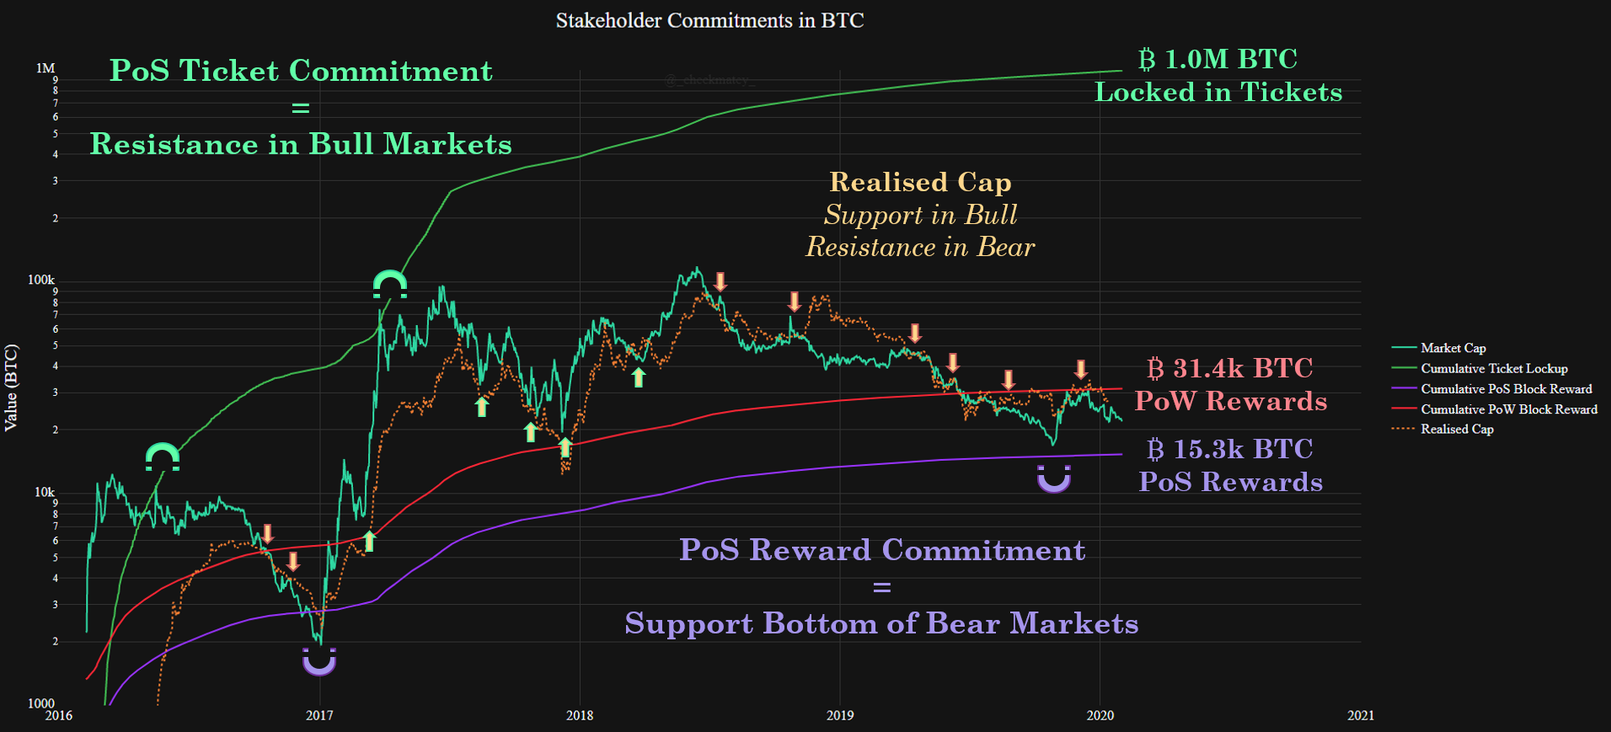
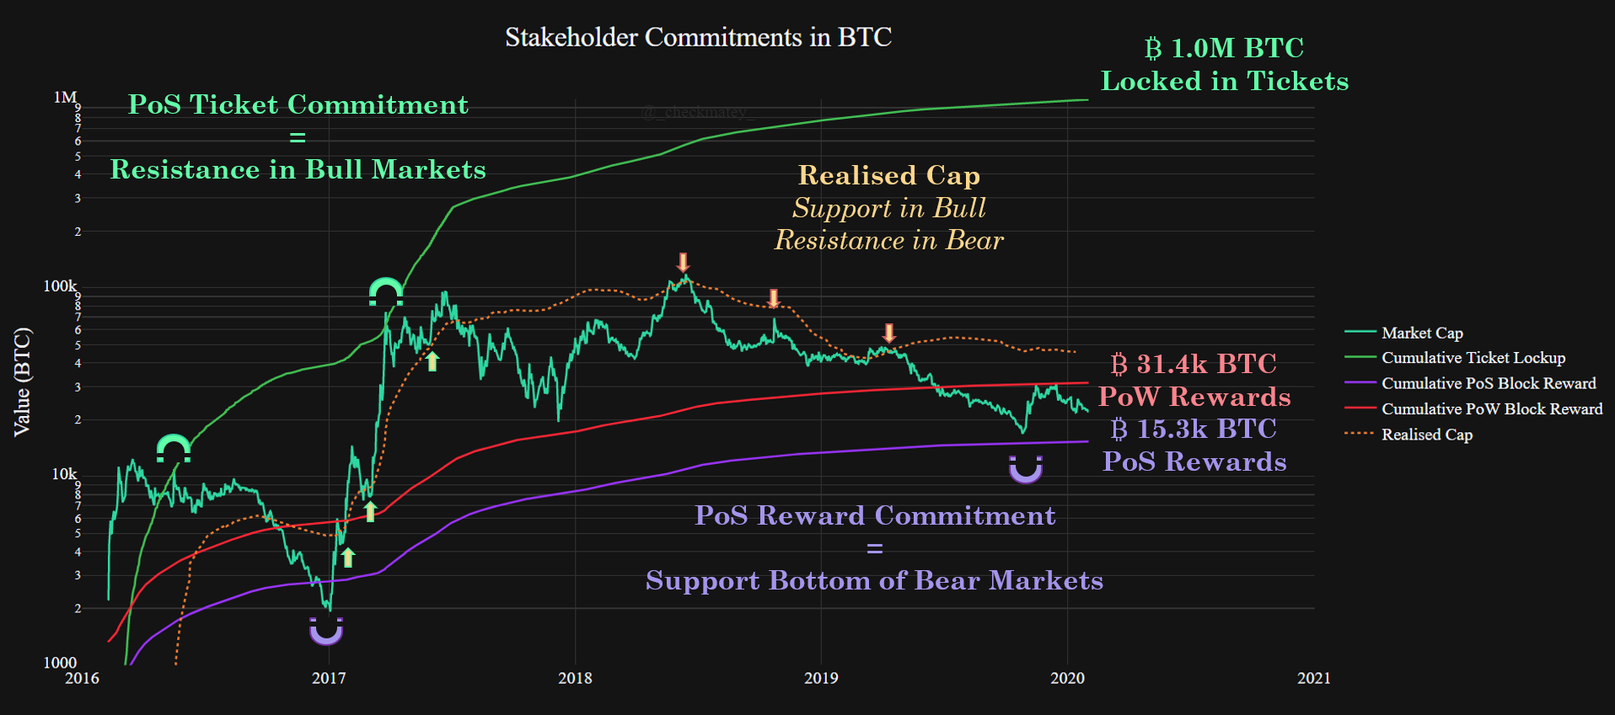
miner test update

diff --git a/btconchain/charts/chart_mcap_vs_blockrewards.py b/btconchain/charts/chart_mcap_vs_blockrewards.py
@@ -1,0 +1,88 @@
+#Plot Market Cap vs Block Subsidy
+from checkonchain.general.standard_charts import *
+from checkonchain.general.coinmetrics_api import *
+
+BTC = Coinmetrics_api('btc',"2009-01-03",today).convert_to_pd().set_index('date',drop=False)
+LTC = Coinmetrics_api('ltc',"2011-10-07",today).convert_to_pd().set_index('date',drop=False)
+DAS = Coinmetrics_api('dash',"2014-01-19",today).convert_to_pd().set_index('date',drop=False)
+DCR = Coinmetrics_api('dcr',"2016-02-08",today).convert_to_pd().set_index('date',drop=False)
+XMR = Coinmetrics_api('xmr',"2014-04-18",today).convert_to_pd().set_index('date',drop=False)
+ZEC = Coinmetrics_api('zec',"2016-10-28",today).convert_to_pd().set_index('date',drop=False)
+ETH = Coinmetrics_api('eth',"2015-07-30",today).convert_to_pd().set_index('date',drop=False)
+
+
+loop_data = [[0,1,2,3,4,5,6,7,8,9,10,11,12,13],[]]
+x_data = [
+    BTC['date'],BTC['date'],
+    LTC['date'],LTC['date'],
+    DAS['date'],DAS['date'],
+    DCR['date'],DCR['date'],
+    XMR['date'],XMR['date'],
+    ZEC['date'],ZEC['date'],
+    ETH['date'],ETH['date'],
+    ]
+y_data = [
+    BTC['CapMrktCurUSD'],BTC['DailyIssuedUSD'].cumsum(),
+    LTC['CapMrktCurUSD'],LTC['DailyIssuedUSD'].cumsum(),
+    DAS['CapMrktCurUSD'],DAS['DailyIssuedUSD'].cumsum()*0.45,
+    DCR['CapMrktCurUSD'],DCR['DailyIssuedUSD'].cumsum()*0.6,
+    XMR['CapMrktCurUSD'],XMR['DailyIssuedUSD'].cumsum(),
+    ZEC['CapMrktCurUSD'],ZEC['DailyIssuedUSD'].cumsum(),
+    ETH['CapMrktCurUSD'],ETH['DailyIssuedUSD'].cumsum(),
+    ]
+name_data = [
+    'BTC','BTC',
+    'LTC','LTC',
+    'DAS','DAS',
+    'DCR','DCR',
+    'XMR','XMR',
+    'ZEC','ZEC',
+    'ETH','ETH',
+    ]
+color_data = [
+    'rgb(255, 102, 0)' ,'rgb(255, 102, 0)' ,
+    'rgb(214, 214, 194)','rgb(214, 214, 194)',
+    'rgb(51, 204, 255)','rgb(51, 204, 255)',
+    'rgb(46, 214, 161)','rgb(46, 214, 161)',
+    'rgb(255, 153, 0)','rgb(255, 153, 0)',
+    'rgb(255, 255, 0)','rgb(255, 255, 0)',
+    'rgb(153, 51, 255)','rgb(153, 51, 255)',
+    ]
+dash_data = [
+    'solid','dash',
+    'solid','dash',
+    'solid','dash',
+    'solid','dash',
+    'solid','dash',
+    'solid','dash',
+    'solid','dash',
+    ]
+width_data = [
+    1,1,1,1,1,1,1,1,1,1,3,3,1,1,
+    ]
+opacity_data = [
+    1,1,1,1,1,1,1,1,1,1,1,1,1,1,
+    ]
+legend_data = [
+    True,True,
+    True,True,
+    True,True,
+    True,True,
+    True,True,
+    True,True,
+    True,True,
+    ]
+title_data = [
+    'Market Cap vs Cumulative Miner Income',
+    'Date',
+    'Value (USD)',
+    'Price USD']
+range_data = [[0,4500],[2,6.3],[-2,4.3]]
+autorange_data = [True,True,True]
+type_data = ['date','log','log']#
+fig = check_standard_charts().subplot_lines_singleaxis(
+    title_data, range_data ,autorange_data ,type_data,
+    loop_data,x_data,y_data,name_data,color_data,
+    dash_data,width_data,opacity_data,legend_data
+    )
+fig.show()

diff --git a/btconchain/charts/chart_ZEC_check.py b/btconchain/charts/chart_ZEC_check.py
@@ -1,0 +1,88 @@
+#Plot Market Cap vs Block Subsidy
+from checkonchain.general.standard_charts import *
+from checkonchain.general.coinmetrics_api import *
+
+BTC = Coinmetrics_api('btc',"2009-01-03",today).convert_to_pd().set_index('date',drop=False)
+LTC = Coinmetrics_api('ltc',"2011-10-07",today).convert_to_pd().set_index('date',drop=False)
+DAS = Coinmetrics_api('dash',"2014-01-19",today).convert_to_pd().set_index('date',drop=False)
+DCR = Coinmetrics_api('dcr',"2016-02-08",today).convert_to_pd().set_index('date',drop=False)
+XMR = Coinmetrics_api('xmr',"2014-04-18",today).convert_to_pd().set_index('date',drop=False)
+ZEC = Coinmetrics_api('zec',"2016-10-28",today).convert_to_pd().set_index('date',drop=False)
+ETH = Coinmetrics_api('eth',"2015-07-30",today).convert_to_pd().set_index('date',drop=False)
+
+
+loop_data = [[0,1,],[]]
+x_data = [
+    #BTC['date'],BTC['date'],
+    #LTC['date'],LTC['date'],
+    #DAS['date'],DAS['date'],
+    #DCR['date'],DCR['date'],
+    #XMR['date'],XMR['date'],
+    ZEC['date'],ZEC['date'],
+    #ETH['date'],ETH['date'],
+    ]
+y_data = [
+    #BTC['CapMrktCurUSD'],BTC['DailyIssuedUSD'].cumsum(),
+    #LTC['CapMrktCurUSD'],LTC['DailyIssuedUSD'].cumsum(),
+    #DAS['CapMrktCurUSD'],DAS['DailyIssuedUSD'].cumsum(),
+    #DCR['CapMrktCurUSD'],DCR['DailyIssuedUSD'].cumsum(),
+    #XMR['CapMrktCurUSD'],XMR['DailyIssuedUSD'].cumsum(),
+    ZEC['SplyCur'],ZEC['BlkCnt'].cumsum()*12.5,
+    #ETH['CapMrktCurUSD'],ETH['DailyIssuedUSD'].cumsum(),
+    ]
+name_data = [
+    #'BTC','BTC',
+    #'LTC','LTC',
+    #'DAS','DAS',
+    #'DCR','DCR',
+    #'XMR','XMR',
+    'ZEC','ZEC',
+    #'ETH','ETH',
+    ]
+color_data = [
+    #'rgb(255, 102, 0)' ,'rgb(255, 102, 0)' ,
+    #'rgb(214, 214, 194)','rgb(214, 214, 194)',
+    #'rgb(51, 204, 255)','rgb(51, 204, 255)',
+    #'rgb(46, 214, 161)','rgb(46, 214, 161)',
+    #'rgb(255, 153, 0)','rgb(255, 153, 0)',
+    'rgb(255, 255, 0)','rgb(255, 255, 0)',
+    #'rgb(153, 51, 255)','rgb(153, 51, 255)',
+    ]
+dash_data = [
+    #'solid','dash',
+    #'solid','dash',
+    #'solid','dash',
+    #'solid','dash',
+    #'solid','dash',
+    'solid','dash',
+    #'solid','dash',
+    ]
+width_data = [
+    1,1,#1,1,1,1,1,1,1,1,1,1,1,1,
+    ]
+opacity_data = [
+    1,1,#1,1,1,1,1,1,1,1,1,1,1,1,
+    ]
+legend_data = [
+    #True,True,
+    #True,True,
+    #True,True,
+    #True,True,
+    #True,True,
+    True,True,
+    #True,True,
+    ]
+title_data = [
+    'ZEC SUpply',
+    'Date',
+    'Supply',
+    'Price USD']
+range_data = [[0,4500],[2,6.3],[-2,4.3]]
+autorange_data = [True,True,True]
+type_data = ['date','linear','linear']#
+fig = check_standard_charts().subplot_lines_singleaxis(
+    title_data, range_data ,autorange_data ,type_data,
+    loop_data,x_data,y_data,name_data,color_data,
+    dash_data,width_data,opacity_data,legend_data
+    )
+fig.show()

diff --git a/dcronchain/charts/chart_dcr_useradoption.py b/dcronchain/charts/chart_dcr_useradoption.py
@@ -876,6 +876,8 @@ fig.show()
 #############################################################################
 """
 DCR_data = DCR_data.merge(BTC_data[['date','PriceUSD',]],on='date',how='left',suffixes=('', '_BTC'))
+DCR_data['CapRealBTC'] = DCR_data['CapRealUSD'].diff(periods=1)/DCR_data['PriceUSD_BTC']
+DCR_data['CapRealBTC'] = DCR_data['CapRealBTC'].cumsum()
 
 
 loop_data = [[0,1,2,3,4],[]]
@@ -891,7 +893,7 @@ y_data = [
     DCR_data['tic_btc_cost'].cumsum(),
     DCR_data['PoS_income_btc'].cumsum(),
     DCR_data['PoW_income_btc'].cumsum(),
-    DCR_data['PriceRealUSD']/DCR_data['PriceUSD_BTC']*DCR_data['SplyCur'],
+    DCR_data['CapRealBTC'],
     ]
 name_data = [
     'Market Cap',
@@ -1136,3 +1138,7 @@ fig = check_standard_charts().subplot_lines_singleaxis(
     )
 fig.update_yaxes(tickformat = "%",dtick=0.1)
 fig.show()
+
+
+
+DCR_sply = dcr_add_metrics().dcr_sply(420600)

diff --git a/research_articles/dcr_useradoption/dcr_useradoption.md b/research_articles/dcr_useradoption/dcr_useradoption.md
@@ -141,99 +141,111 @@ Decred has an approximately equal network valuation to Bitcoin at the same age w
 
 # 2) The Unforgeable Work of DCR Miners
 
-Proof-of-Work miners are integral to the security, decentralisation and immutability of the Decred blockchain. Miners are responsible for building the chain through cryptographically hashing valid transactions into blocks before presenting them for validated by PoS tickets.
+Proof-of-Work miners are integral to the security, decentralisation and immutability of the Decred blockchain. Miners are responsible for building the blockchain by cryptographically hashing valid transactions into blocks, and presenting them for validation by PoS tickets.
 
-Miners invest in hardware CAPEX and establish long term energy contracts to provide this service which secured the blockchain through a number of unforgeable mechanisms:
+Miners invest in mining hardware and establish long term energy contracts to provide this service which secures the blockchain through a number of unavoidable mechanisms:
 
-- Creates a financial and logistical hurdle for potential attackers to overcome to aquire sufficient hash-rate and energy to build an competitive side-chain.
 - Investment in Application Specific Integrated Circuits (ASICs) create an incentive for honest miners to defend their sunk-cost CAPEX. This aligns miner incentives with the users and success of the Decred blockchain.
-- Proof-of-Work roots the cost of block creation to a demand for energy which cannot be forged.
-- The globally competitive market for energy leads to widely distributed mining operations in pursuit of favourable combinations of energy sources and contracts, hardware manufacturing, climates and regulatory jurisdictions. This promotes geographical distribution of mining operations to provide system redundancy.
+- Creates a financial and logistical hurdle for potential attackers to overcome in order to aquire sufficient hash-rate and energy resources to build an competitive side-chain.
+- Proof-of-Work consensus roots the cost of block creation to an unforgeable demand for energy.
+- The globally competitive market for energy leads to widely distributed mining operations in pursuit of favourable combinations of energy sources and contracts, hardware manufacturing, climates and regulatory jurisdictions. This promotes geographical distribution of mining operations to provide system redundancy and resilience.
 
 ## Growth of Hash-rate
 
-Decred launched into the 2016 market where GPU miners were readily available. Decred thus had an initial difficulty setting equivalent to the hashpower of 256 contemporary GPUs. Decred mining has since progressed to become an ASIC dominated chain as of early 2018 [[1](https://youtu.be/7K2sDhyjQys)], [[2](https://youtu.be/8TPFIVYy_i4)]. Since ASICs have come on-line, the Decred hash-rate has expanded by 1,000x with most growth occuring over a one year period from 2018 to 2019.
+Decred launched into the 2016 market where GPU miners were readily available, and thus had an initial difficulty set to the equivalent hashpower of 256 contemporary GPUs. Decred mining has since progressed to become an ASIC dominated chain with ASICs coming online in early 2018 [[1](https://youtu.be/7K2sDhyjQys)], [[2](https://youtu.be/8TPFIVYy_i4)]. Following ASICs, the Decred hash-rate has expanded by 1,000x with most growth occuring over a one year period from 2018 to 2019.
 
-The Decred hash-rate currently fluctuates between 400-500 PetaHash/s, similar to that of Bitcoin in 2015. Decred hash-rate has remained relatively stable since early 2019 in response to depression of the DCRUSD price during the bear market cycle.
+The Decred hash-rate currently fluctuates between 400-500 PetaHash/s, a similar magnitude to  Bitcoin circa 2015, after the introduction of ASICs in 2012. Decred hash-rate has remained relatively stable since early 2019 in response to depression of the DCRUSD price during the bear market cycle. There are remarkable similarities in the growth rate of Decred hash-power from age 0 to 4yrs compared to Bitcoin from age 3 to 6yrs.
 
 ![miner_pow_growth.png](images/miner_pow_growth.png)
 
-The Decred difficulty ribbon is presented in the chart above by taking a series of daily moving averages (9,14,25,40,60,90,128 and 200 periods) of protocol mining difficulty. The difficulty ribbon provides insight into the aggregate behaviour of miners. This shows that Decred has experienced four distinct phases of the mining cycle throughout its four year lifespan, summarised in the table below.
+The Decred difficulty ribbon is presented in the chart above by taking a series of daily moving averages (9, 14, 25, 40, 60, 90, 128 and 200 periods) of protocol mining difficulty. The difficulty ribbon provides insight into the aggregate behaviour of miners and shows Decred has experienced four distinct phases of the mining cycle, summarised in the table below.
 
 ![miner_character.png](images/miner_character.png)
 
-It can be seen that there are remarkable similarities in the growth rate of hash-power between Decred from year 0 to 4 compared to Bitcoin from year 3 to 6. What is notable is the coupling between Bitcoin price and hash-rate trends. Re-expansion of the Bitcoin difficulty ribbon tends to follow price appreciation during bull markets and, conversely, compresses following the capitulation phase at the end of bear markets.  
+What is notable is the coupling between Bitcoin price and hash-rate trends. Re-expansion of the Bitcoin difficulty ribbon tends to follow price appreciation during bull markets and, conversely, compresses following the capitulation phase at the end of bear markets.  
 
-For Decred, ASICs were introduced to the network at the peak of what became a significant and industry wide bear market (starting early 2018). Thus Decred has experienced a process of hash-rate expansion due to improved hardware efficiency (supersceding GPUs) without the support of coin price appreciation.
+For Decred, ASICs were introduced to the network at the peak of what became a significant and industry wide bear market, starting early 2018. Thus Decred has experienced a process of hash-rate expansion due to improved hardware efficiency (supersceding GPUs) without the support of coin price appreciation.
 
-As such, it is likely that the present cohort of ASIC miners have endured challenging financial conditions, particularly through 2019 as seen by the current compression of the Difficulty ribbon as miners turn off unprofitable hardware. Similarly, it is reasonable to conclude that miners will require sustained DCR price appreciation to justify further investment in hardware CAPEX or upgrades.
+As such, it is likely that the present cohort of ASIC miners have endured challenging financial conditions, particularly through 2019. This is confirmed by the current compression of the Difficulty ribbon, a result of miners turning off unprofitable hardware.
 
-Assuming a bear market price floor has been found at the time of writing, the Decred hash-rate and mining difficulty will likely remain rangebound at currently levels until this price threshold is passed.
+Similarly, it is reasonable to conclude that miners will require sustained DCR price appreciation to justify any further investment in hardware CAPEX or upgrades. Therefore, the author expects the Decred hash-rate and mining difficulty to remain rangebound at current levels until this price upper threshold is passed.
 
 ## Miner Income
 
-We can establish a basis for aggregate miner behaviour by reviewing the [cumulative block rewards](https://medium.com/@permabullnino/decred-on-chain-a-look-at-block-subsidies-6f5180932c9b) paid to miners (incl. subsidy and fees). Decred has paid miners over $147M in PoW rewards with $875k of this attributed to transaction fees (0.595%).
+We can establish a basis for aggregate miner behaviour by reviewing the [cumulative block rewards](https://medium.com/@permabullnino/decred-on-chain-a-look-at-block-subsidies-6f5180932c9b) paid to miners (incl. subsidy and fees). It is important to remember that miners carry costs denominated in local fiat currencies for hardware, overheads, capital costs and energy contracts. Thus, the USD price is the correct metric as a baseline for assessing miner incentives. In this context, Decred has paid miners over $147M in PoW rewards with $875k of this attributed to transaction fees (0.595%).
 
-Long term development of a fee market is a critical evolution to sustain a fixed maximum coin supply of 21M units. Whilst early in Decred's life, the ratio of daily transaction fees as a proportion of the total block reward shows Decred fees account for 0.04% of miner income. Similar to block-space utility, the Decred privacy implementation has shown a positive feature for miner incomes and the fee ratio.
+Long term development of a fee market is a critical evolution to sustain a fixed maximum coin supply of 21M units. The ratio of daily transaction fees as a proportion of the total block reward shows Decred fees currently account for 0.04% of miner income. Similar to block-space utility, the Decred privacy implementation has shown to be a positive feature for miner incomes and the fee ratio as demand for mixing increases the volume of fees paid.
 
-Of note is the distinct plateau in cumulative transaction fees paid after July 2017. This is a direct result of the consensus rule change to [replace the original stake-difficulty algorithm](https://medium.com/decred/new-stake-difficulty-algorithm-cdf432d623fe) which had a natural resonance in the ticket price. This led to 'fee wars' by users attempting to aquire tickets during price troughs and an overall poor user experience. This consensus rule change [passed a governance vote with 97.9% approval](https://explorer.dcrdata.org/agenda/sdiffalgorithm) despite being clearly against miner short term interest.
+### The Stake-Diff Algorithm
 
-There are two mechanisms which would lead to this vote result, both of which the author deems positive outcomes for the Decred project and governance system:
+Of note is the distinct plateau in cumulative transaction fees paid after July 2017. This is a direct result of the consensus rule change to [replace the original stake-difficulty algorithm](https://medium.com/decred/new-stake-difficulty-algorithm-cdf432d623fe) which had a natural resonance in the ticket price. This led to 'fee wars' were users attempted to aquire tickets during price troughs and resulted in an overall poor user experience. This consensus rule change [passed a governance vote with 97.9% approval](https://explorer.dcrdata.org/agenda/sdiffalgorithm) despite being clearly against miner short term interest (higher fees).
 
-- Miners are freely able to stake mined coins, and during the 2017 bull market, this was a profitable strategy. Thus miners holding tickets still voted in favor of long term user experience rather than in their own short term financial interest. This suggests sound alignment of miner values with those of the rest of the community.
-- Mining was dominated by dual Ethereum GPU miners in 2017, whom are generally believed to have distributed DCR coins almost immediately to exchanges for sale. Thus, miners would not have a significant say in the vote and indicates a wide coin distribution into the public has occured which enhances vote decentralisation.
+There are two mechanisms that would lead to this vote result, both of which the author deems very positive outcomes for the Decred project health anda credit to the governance and upgrade system:
+
+1. Miners are freely able to stake mined coins, and during the 2017 bull market, this was a profitable strategy. Thus miners holding tickets still voted in favor of long term user experience rather than in their own short term financial interest. This suggests sound alignment of miner values with those of the rest of the community.
+
+2. Mining was dominated by dual Ethereum GPU miners in 2017, whom are generally believed to have distributed DCR coins almost immediately to exchanges for sale. Thus, miners would not have had a a significant say in the vote and this indicates a wide, public coin distribution has occured which enhances vote decentralisation.
 
 ![miner_stakediff.png](images/miner_stakediff.png)
 
-An additional observation pertaining to the cumulative miner rewards paid is the notion of miners 'putting the bottom in' for bear markets. Given this represents the aggregate income of the mining industry, where network valuation falls below this level, it can indicate mining is becoming increasingly unprofitable on aggregate.
+An additional observation pertaining to cumulative miner rewards paid is the notion of miners 'putting the bottom in' for bear markets. Given this represents the aggregate income of the mining industry, when the network valuation falls below this level, it can indicate mining is becoming increasingly unprofitable on aggregate.
 
-This leads to weaker miners disabling mining rigs, a compression of the difficulty ribbon and an increased share of hash-rate gained by stronger miners. Given strong miner stategy tends to focus on accumulation of coins in bullish markets, this begins to constrain the available supply entering the market and has shown to preceed price appreciation and bullish conditions for both Bitcoin and Decred in the past. 
+This leads to weaker miners disabling mining rigs, a compression of the difficulty ribbon and an increased share of hash-rate gained by stronger miners. Given strong miner stategy tends to focus on accumulation of coins in bullish markets, this begins to constrain the available supply entering the market and has historically shown to preceed price appreciation and bullish conditions, both for Bitcoin and Decred.
 
 ![miner_pow_rewards.png](images/miner_pow_rewards.png)
 
 ## Summary of Proof-of-Work Miners
 
-Decred mining is dominated by ASIC hardware and has experienced significant growth in hash-rate despite bear market conditions since 2018. It is likely that miners have been tested by challenging financial conditions and poor profitability as a result which sheds light on mechanisms behind DCR price performance since all-time-highs.
+Decred mining is dominated by ASIC hardware and has experienced significant growth in hash-rate despite bear market conditions since 2018. It is likely that miners have been tested by challenging financial conditions and poor profitability since 2019 which sheds some light on the mechanisms behind DCR price performance through this time.
 
-That said, the difficulty ribbon and cumulative rewards paid to miners are exhibiting typical basing patterns seen in other proof-of-work coins like Bitcoin. A notable increase in demand for block-space is seen following the launch of Decred's privacy mixing technology, carrying a net positive impact on the fee ratio and long term sustainability. 
+That said, the difficulty ribbon and cumulative rewards paid to miners are exhibiting typical basing patterns often seen in other proof-of-work coins like Bitcoin. A notable increase in demand for block-space is seen following the launch of Decred's privacy mixing technology which carries a net positive impact on the fee ratio and long term sustainability of the DCR mining market. 
 
 # 3) The Strong Hands of DCR Stakeholders
 
-Long-term holding of DCR is distictly different to many other cryptocurrencies in that it promotes the continual movement of coins in the form of PoS tickets. The purchase of a ticket ([or part thereof](https://docs.decred.org/proof-of-stake/ticket-splitting/)) is an explicit and deliberate act to bind a quantity of the stakeholders DCR coins, in an illiquid state, to the performance of the Decred network.
+Long-term holding of DCR is distictly different to many other cryptocurrencies in that it promotes the continual movement of coins in the form of PoS tickets. The purchase of a ticket ([or part thereof](https://docs.decred.org/proof-of-stake/ticket-splitting/)) is an explicit and deliberate act to bind a volume of DCR coins, in an illiquid state, to the performance of the Decred network.
 
-[Tickets undergo a process](https://docs.decred.org/proof-of-stake/overview/) of maturation, psuedo-random selection to vote and then a delay before coins are released. The whole process can take anywhere between 1.5 and 142days. Ticket stakeholders are thus exposed to coin price volatility and market reaction to any consensus or governance votes during that window.
+[Tickets undergo a process](https://docs.decred.org/proof-of-stake/overview/) of maturation, psuedo-random selection to vote and then another maturation delay before coins are released. The whole process can take anywhere between 1.5 and 142days and ticket stakeholders are thus exposed to coin price volatility, and market reaction to any consensus or governance votes during that window.
 
-In reward for their patience, resilience and taking on price risk, stakeholders are rewarded with 30% of the block reward, split between the five tickets selected to vote on each block.
+As reward for their patience, resilience and acceptance of price risk, stakeholders are rewarded with 30% of the block reward, split equally between the five tickets selected to vote on each block. This process gamifies participation in Decred governance whilst also promoting a desire to 'choose wisely' for governance and consensus decisions.
 
-This process gamifies the participation in Decred governance whilst also promoting active participation and a desire to 'choose wisely' for governance and consensus decisions.
+### Ticket Participation
+
+The cumulative DCR bound to the chain in tickets (blue) has very closely matched the total coin issuance via Proof-of-Work (red). This is an important observation, it suggests DCR coins distributed by miners (who are compulsory sellers) are ultimately making their way back into the PoS system after being accumulated by investors, improving wealth distribution and vote decentralisation.
+
+The chart below shows that in the lead up to, and during a protocol consensus change vote, DCR bound to the chain grows noticably. This indicates a strong incentive for participation and a demand for stakeholders to have a meaningful say.
+
+![staker_consensus_change.png](images/staker_consensus_change.png)
+![staker_ticket_pool.png](images/staker_ticket_pool.png)
 
 ## Hodler Psychology
 
-DCR holders are free to opt-out and sell their coins into the market at any time when their coins are not bound in tickets. Thus, all ticket purchases carry an underlying assumption, that the individual believes the ticket price plus block reward will be more valuable in the future than today.
+DCR holders are free to opt-out and sell their coins into the market at any time when coins are not bound in tickets. Thus, all ticket purchases carry an underlying assumption, that the individual believes the ticket price plus PoS block reward will be more valuable in the future than today.
 
-In other words, if a holder believes obtaining the PoS block reward is not worth the volatility risk, they are better off holding liquid DCR coins or to sell them, rather than take on price risk for a psuedo-random period of time.
+In other words, if a holder believes obtaining the PoS block reward is not worth the volatility risk, they are better off holding liquid DCR coins or to move to sell them, rather than take on risk for a psuedo-random period of time.
 
-This is a very different mechanism to Bitcoin holders who will typically move BTC coins they believe to be undervalued into deep cold storage without moving them. The team at [Coinmetrics developed the Realised Price](https://coinmetrics.io/realized-capitalization/) to quantify this behaviour.
-
-The Realised Price measures the aggregate value of each UTXO, priced at the time it last moved. It thus represents an aggregate view on the market cost-basis for BTC coins and a lower bound on what long-term holders believe the Bitcoin network is worth.
+This is a very different mechanism to Bitcoin holders who will typically send BTC coins they believe are undervalued into deep cold storage. The team at [Coinmetrics developed the Realised Price](https://coinmetrics.io/realized-capitalization/) to quantify this behaviour by measuring the value of each UTXO, priced at the time it last moved. It thus represents an aggregate view on the market cost-basis for BTC coins, and a lower bound on what long-term holders believe the Bitcoin network is worth (the value users have 'saved' in BTC).
 
 For Decred, the realised price is more closely correlated with market value as it is influenced by the continual flow of DCR in tickets. Thus, this metric does not adhere to the same set of assumptions and instead has shown to be a point of market support and resistance in bull and bear markets respectively.
 
 ## Stakeholder Commitment
 
-Rational market actors are more likely to sell DCR when they believe coins are overvalued, rather than buy tickets and take on volatility risk. By taking a cumulative sum of all DCR bound in tickets, priced at the time of purchase, we can establish a measure of stakeholder 'commitment' to the Decred chain. This represents the aggregate dollar value locked in tickets.
+Rational market actors are more likely to sell DCR they believe are overvalued, rather than buy tickets and take on volatility risk. By taking a cumulative sum of all DCR bound in tickets, priced at the time of purchase, we can establish a measure of stakeholder 'commitment' to the Decred chain. This represents the aggregate dollar value locked in tickets.
 
-To date, Decred stakeholders have committed over $5.6 Billion in value to the chain in ticket purchases, approximately 38x the market cap of the entire network at the time of writing.
+To date, Decred stakeholders have committed over $5.6 Billion in value to the chain in ticket purchases, approximately 38x the market cap of the entire network at the time of writing. Price in BTC, this equates to 1M BTC in value purchased in tickets, two orderx of magnitude greater than network value and cumulative rewards paid denominated in BTC.
 
-Interestingly, this psychological stakeholder commitment line has acted as a point of price resistance during the 2017 bull trend. Conversely, PoW miners cannot be expected to commit more hash-power investment than is allowed for in the block reward. The cumulative miner income line has thus shown to be a level of fundamental support during bearish trends.
+Interestingly, these psychological stakeholder commitment lines have acted as points of price resistance during the 2017 bull trend. Conversely, PoW miners, whos cost basis is USD denominated, cannot be expected to commit more hash-power investment than is allowed for in the USD denominated block reward. The cumulative miner USD income line has thus shown to be a level of fundamental support during bearish trends.
 
 ![staker_cumulative_usd.png](images/staker_cumulative_usd.png)
 
+Investors in the cryptocurrency market often consider a cost basis denominated in BTC, being akin to the local reserve asset of the market. When modelling the cumulative rewards paid out to both PoW miners and PoS stakeholders, it can be seen that both fundamental levels are respected by the DCR/BTC price chart [(credit to @permabullnino for this finding)](https://medium.com/@permabullnino/decred-on-chain-a-look-at-block-subsidies-6f5180932c9b).
 
+Decred thus far has issued 31.4k and 15.3k in BTC equivalent value to PoW miners and PoS stakeholders respectively.
 
 ![staker_cumulative_btc.png](images/staker_cumulative_btc.png)
 
-![staker_ticket_pool.png](images/staker_ticket_pool.png)
+## Stakeholder Summary
+
+
 
 # 4) The Skill and Time of DCR Architects
 
